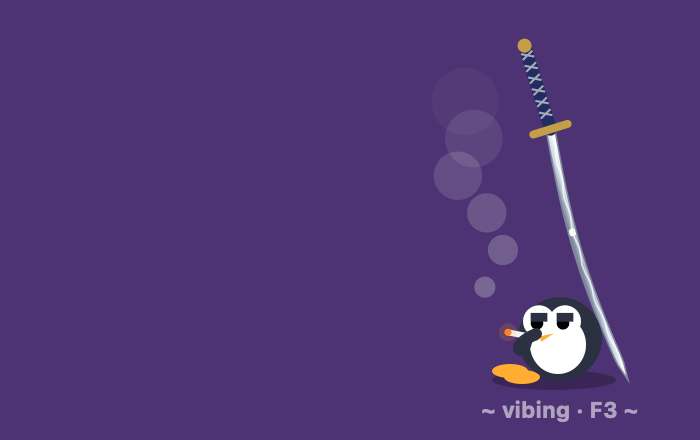
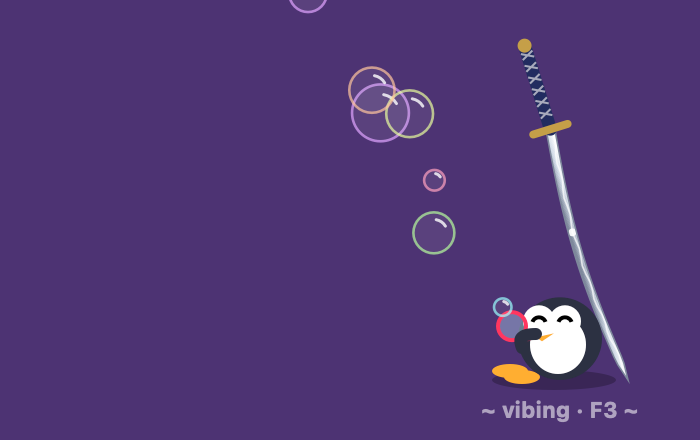
Add soap-bubble vibe and a screen shake switch

Changed region(s): [[0.48, 0.1477, 0.84, 0.7977], [0.57, 0.5023, 0.6, 0.5614], [0.42, 0.0, 0.48, 0.0295]]

diff --git a/boink.swift b/boink.swift
@@ -1,7 +1,7 @@
 import AppKit
 import Carbon
 
-let isTrial = CommandLine.arguments.dropFirst().contains { $0.hasPrefix("--") }
+let isTrial = CommandLine.arguments.dropFirst().contains { $0.hasPrefix("--") && $0 != "--no-shake" }
 let screenArea = NSScreen.main?.visibleFrame ?? NSRect(x: 0, y: 0, width: 1440, height: 900)
 // Trials keep a fixed stage so their numbers stay comparable; the game fills most of the screen.
 let windowSize = isTrial ? NSSize(width: 900, height: 560) : NSSize(width: screenArea.width - 20, height: screenArea.height - 20)
@@ -384,6 +384,10 @@ final class BoinkView: NSView {
 
     var isVibing = false
 
+    var blowsBubbles = isTrial || UserDefaults.standard.object(forKey: "vibeBubbles") as? Bool ?? true
+
+    var shakesScreen = !CommandLine.arguments.contains("--no-shake") && (isTrial || UserDefaults.standard.object(forKey: "screenShake") as? Bool ?? true)
+
     var vibeClock: CGFloat = 0
 
     var isAirborne: Bool { me.isAirborne }
@@ -457,6 +461,17 @@ final class BoinkView: NSView {
 
     func isOverVibingPenguin(_ point: CGPoint) -> Bool { isNear(point, CGPoint(x: vibeSeat.x, y: vibeSeat.y + 22), 36) }
 
+    @objc func pickVibe(_ item: NSMenuItem) {
+        blowsBubbles = item.tag == 1
+        UserDefaults.standard.set(blowsBubbles, forKey: "vibeBubbles")
+        needsDisplay = true
+    }
+
+    @objc func toggleShake() {
+        shakesScreen.toggle()
+        UserDefaults.standard.set(shakesScreen, forKey: "screenShake")
+    }
+
     @objc func toggleVibe() {
         guard !isGameOver else { return }
         isVibing.toggle()
@@ -515,6 +530,15 @@ final class BoinkView: NSView {
         }
         menu.addItem(.separator())
         menu.addItem(withTitle: isVibing ? "Back to smashing (F3)" : "Vibe (F3)", action: #selector(toggleVibe), keyEquivalent: "").target = self
+        for (title, bubbles) in [("🫧 Soap bubbles", true), ("🚬 Smoke break", false)] {
+            let item = menu.addItem(withTitle: "    " + title, action: #selector(pickVibe(_:)), keyEquivalent: "")
+            item.target = self
+            item.tag = bubbles ? 1 : 0
+            item.state = blowsBubbles == bubbles ? .on : .off
+        }
+        let shaking = menu.addItem(withTitle: "Screen shake", action: #selector(toggleShake), keyEquivalent: "")
+        shaking.target = self
+        shaking.state = shakesScreen ? .on : .off
         menu.addItem(withTitle: "Reset", action: #selector(reset), keyEquivalent: "").target = self
         menu.addItem(withTitle: "Quit Boink", action: #selector(NSApplication.terminate(_:)), keyEquivalent: "")
         NSMenu.popUpContextMenu(menu, with: event, for: self)
@@ -1149,7 +1173,8 @@ final class BoinkView: NSView {
         }
         NSGraphicsContext.saveGraphicsState()
         let jolt = NSAffineTransform()
-        jolt.translateX(by: sin(clock * 97) * shake, yBy: cos(clock * 89) * shake * 0.6)
+        let jitter = shakesScreen ? shake : 0
+        jolt.translateX(by: sin(clock * 97) * jitter, yBy: cos(clock * 89) * jitter * 0.6)
         jolt.concat()
         drawWorld()
         NSGraphicsContext.restoreGraphicsState()
@@ -2314,6 +2339,22 @@ extension BoinkView {
         NSBezierPath(ovalIn: NSRect(x: body.x - 13, y: body.y - 18, width: 28, height: 30 + breath)).fill()
 
         let face = CGPoint(x: body.x + 4, y: body.y + 8 + breath)
+        if blowsBubbles {
+            drawBubbleBreak(body: body, face: face, shellColor: shellColor, orange: orange)
+        } else {
+            drawSmokeBreak(body: body, face: face, shellColor: shellColor, orange: orange)
+        }
+        NSGraphicsContext.restoreGraphicsState()
+
+        let hint: [NSAttributedString.Key: Any] = [
+            .font: NSFont.systemFont(ofSize: 11, weight: .bold),
+            .foregroundColor: NSColor.white.withAlphaComponent(0.55),
+        ]
+        let caption = "~ vibing · F3 ~" as NSString
+        caption.draw(at: CGPoint(x: seat.x - caption.size(withAttributes: hint).width / 2, y: seat.y - 22), withAttributes: hint)
+    }
+
+    func drawSmokeBreak(body: CGPoint, face: CGPoint, shellColor: NSColor, orange: NSColor) {
         // A slow drag every few seconds: the ember flares and the eyes close for a moment.
         let drag = max(0, sin(vibeClock * 1.4)) > 0.92
         for side: CGFloat in [-1, 1] {
@@ -2378,14 +2419,91 @@ extension BoinkView {
             circle(puff, 3 + t * 16).fill()
         }
 
-        NSGraphicsContext.restoreGraphicsState()
+    }
 
-        let hint: [NSAttributedString.Key: Any] = [
-            .font: NSFont.systemFont(ofSize: 11, weight: .bold),
-            .foregroundColor: NSColor.white.withAlphaComponent(0.55),
-        ]
-        let caption = "~ vibing · F3 ~" as NSString
-        caption.draw(at: CGPoint(x: seat.x - caption.size(withAttributes: hint).width / 2, y: seat.y - 22), withAttributes: hint)
+    func drawBubbleBreak(body: CGPoint, face: CGPoint, shellColor: NSColor, orange: NSColor) {
+        for side: CGFloat in [-1, 1] {
+            let eye = CGPoint(x: face.x + side * 6.5, y: face.y + 1)
+            NSColor.white.setFill()
+            circle(eye, 8).fill()
+            let happy = NSBezierPath()
+            happy.appendArc(withCenter: CGPoint(x: eye.x, y: eye.y - 1.5), radius: 3.5, startAngle: 20, endAngle: 160)
+            happy.lineWidth = 2
+            NSColor.black.setStroke()
+            happy.stroke()
+        }
+        NSColor.systemPink.withAlphaComponent(0.35).setFill()
+        circle(CGPoint(x: face.x + 12, y: face.y - 6), 3).fill()
+
+        let beak = NSBezierPath()
+        beak.move(to: CGPoint(x: face.x - 1, y: face.y - 5))
+        beak.line(to: CGPoint(x: face.x + 8, y: face.y - 7))
+        beak.line(to: CGPoint(x: face.x + 5, y: face.y - 9))
+        beak.close()
+        orange.setFill()
+        beak.fill()
+
+        // Each blow fills the wand film and then lets a bubble go.
+        let blow = (vibeClock * 0.8).truncatingRemainder(dividingBy: 1)
+        let ring = CGPoint(x: face.x + 20, y: face.y - 2 + sin(vibeClock * 2) * 1.5)
+        let wand = NSBezierPath()
+        wand.move(to: CGPoint(x: body.x + 18, y: body.y - 6))
+        wand.line(to: CGPoint(x: ring.x - 2, y: ring.y - 7))
+        wand.lineWidth = 2
+        wand.lineCapStyle = .round
+        NSColor.systemPink.setStroke()
+        wand.stroke()
+        NSColor(calibratedRed: 0.7, green: 0.9, blue: 1, alpha: 0.2 + 0.25 * blow).setFill()
+        circle(ring, 7).fill()
+        let loop = circle(ring, 7)
+        loop.lineWidth = 2
+        NSColor.systemPink.setStroke()
+        loop.stroke()
+
+        let flipper = NSBezierPath()
+        flipper.move(to: CGPoint(x: body.x + 12, y: body.y + 2))
+        flipper.curve(to: CGPoint(x: body.x + 19, y: body.y - 5), controlPoint1: CGPoint(x: body.x + 22, y: body.y + 2), controlPoint2: CGPoint(x: body.x + 20, y: body.y - 2))
+        flipper.lineWidth = 6
+        flipper.lineCapStyle = .round
+        shellColor.setStroke()
+        flipper.stroke()
+
+        let count = 9
+        for i in 0..<count {
+            let phase = vibeClock * 0.16 + CGFloat(i) / CGFloat(count)
+            let t = phase.truncatingRemainder(dividingBy: 1)
+            let seed = CGFloat(i * 7) + floor(phase) * 13
+            func chance(_ salt: CGFloat) -> CGFloat { abs(sin((seed + salt) * 12.9898) * 43758.5453).truncatingRemainder(dividingBy: 1) }
+            let size = (5 + chance(1) * 10) * min(1, t * 8)
+            let lifespan = 0.75 + 0.25 * chance(2)
+            guard t < lifespan else { continue }
+            let spot = CGPoint(x: ring.x + 8 + t * (60 + chance(3) * 120) + sin(t * 9 + seed) * 10,
+                               y: ring.y + t * (150 + chance(4) * 120) + sin(t * 5 + seed) * 6)
+            if lifespan - t < 0.04 {
+                let pop = NSBezierPath()
+                for k in 0..<6 {
+                    let a = CGFloat(k) * .pi / 3
+                    pop.move(to: CGPoint(x: spot.x + cos(a) * size * 0.8, y: spot.y + sin(a) * size * 0.8))
+                    pop.line(to: CGPoint(x: spot.x + cos(a) * size * 1.3, y: spot.y + sin(a) * size * 1.3))
+                }
+                pop.lineWidth = 1.2
+                NSColor.white.withAlphaComponent(0.6).setStroke()
+                pop.stroke()
+                continue
+            }
+            NSColor.white.withAlphaComponent(0.07).setFill()
+            circle(spot, size).fill()
+            let film = circle(spot, size)
+            film.lineWidth = 1.3
+            NSColor(calibratedHue: (chance(5) + t * 0.6).truncatingRemainder(dividingBy: 1), saturation: 0.45, brightness: 1, alpha: 0.7).setStroke()
+            film.stroke()
+            let shine = NSBezierPath()
+            shine.appendArc(withCenter: spot, radius: size * 0.65, startAngle: 100, endAngle: 150)
+            shine.lineWidth = 1.5
+            shine.lineCapStyle = .round
+            NSColor.white.withAlphaComponent(0.8).setStroke()
+            shine.stroke()
+        }
     }
 
     func drawGameOver() {
@@ -2509,7 +2627,7 @@ extension BoinkView {
 
         NSColor.black.withAlphaComponent(0.45).setFill()
         NSBezierPath(roundedRect: vibeFrame, xRadius: 13, yRadius: 13).fill()
-        let vibe = "🚬 vibe" as NSString
+        let vibe = (blowsBubbles ? "🫧 vibe" : "🚬 vibe") as NSString
         vibe.draw(at: CGPoint(x: vibeFrame.midX - vibe.size(withAttributes: option).width / 2, y: vibeFrame.minY + 5), withAttributes: option)
 
     }
@@ -2851,6 +2969,8 @@ if let path = argument(after: "--vibe") {
     view.toggleVibe()
     for _ in 0..<200 { view.vibeClock += tick }
     save(view, to: path)
+    view.blowsBubbles = false
+    save(view, to: path + "-smoke.png")
     view.toggleVibe()
     print("vibe keeps clock \(view.clock == frozen.0), time left \(view.timeLeft == frozen.1)")
     exit(view.clock == frozen.0 && !view.isVibing ? 0 : 1)

diff --git a/README.md b/README.md
@@ -23,7 +23,8 @@ That's exactly one level of Jelly-Smasher.
 - 🪟 **Lives on top of your desktop.** It's a transparent, always-on-top overlay. Everything except the penguin and its weapon is click-through, so your terminal and editor keep working underneath.
 - ⚡ **Zero setup.** It's one Swift file with no dependencies. Compile it and play.
 - ⏱ **10-second levels.** Clear the screen before the clock runs out, then get back to reviewing that diff.
-- 🚬 **Vibe mode.** Hit `F3` (or the 🚬 vibe button) and the game freezes. The slimes vanish and the penguin sits down in the corner for a smoke, its weapon leaning behind it, until you're ready again.
+- 🫧 **Vibe mode.** Hit `F3` (or the vibe button) and the game freezes. The slimes vanish and the penguin sits down in the corner, weapon leaning behind it, and blows soap bubbles until you're ready again. Prefer a smoke break? Switch it in the right-click menu.
+- 🧘 **Calm mode.** Launch with `./boink --no-shake`, or untick *Screen shake* in the right-click menu (remembered), for all the juice without the screen jumping around.
 
 <div align="center"><img src="assets/vibe.png" width="420" alt="Vibe mode"></div>
 
@@ -70,7 +71,9 @@ swiftc -O boink.swift -o boink
 | Swing | Grab the penguin or the weapon and fling it around |
 | Switch weapon | Click the weapon bar, or right-click the penguin |
 | Move the whole game | ⌥ Option-drag |
-| Vibe / pause | `F3` from any app, the 🚬 vibe button, or right-click → Vibe. Click the lounging penguin to get back up |
+| Vibe / pause | `F3` from any app, the vibe button, or right-click → Vibe. Click the lounging penguin to get back up |
+| Vibe style | Right-click → 🫧 Soap bubbles / 🚬 Smoke break |
+| Screen shake | Right-click → Screen shake, or launch with `./boink --no-shake` |
 | Restart | Click anywhere after game over, double-click the penguin, or right-click → Reset |
 | Quit | Right-click → Quit Boink |
 
